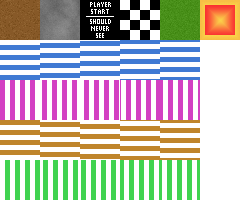
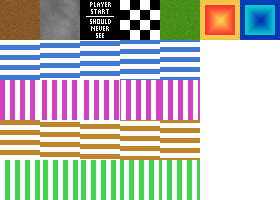
Hot and cold ground panels raise or sink, can float over mountains, no bridge to duck under yet or other use of the lowering block though. Also updated some variable names

diff --git a/js/ball.js b/js/ball.js
@@ -1,8 +1,21 @@
+var balloonHeightNormal = 20;
+var ballonDeviation = 2;
+var heightChangePace = 0.04;
+var heightChangeDampen = 0.6;
+var heightMin = 2;
+var heightMax = 50;
+var mountainHeight = 30;
+var balloonCorrectivePaceRise = 0.1;
+var balloonCorrectivePaceSink = 0.5;
+
 function ballClass() {
-  this.X = 75;
-  this.Y = 75;
-  this.XV = 5;
-  this.YV = -3;
+  this.x = 75;
+  this.y = 75;
+  this.xv = 5;
+  this.yv = -3;
+  this.z = balloonHeightNormal;
+  this.zv = 0;
+  this.heightOscillate = 0.0;
 
   // keyboard hold state variables, to use keys more like buttons
   this.keyHeld_Gas = false;
@@ -32,16 +45,16 @@ function ballClass() {
       } // end of for
     } // end of if car position not saved yet
     
-    this.X = this.homeX;
-    this.Y = this.homeY;
-    this.XV = 5;
-    this.YV = -3;
+    this.x = this.homeX;
+    this.y = this.homeY;
+    this.xv = 5;
+    this.yv = -3;
 
   } // end of carReset
   
   this.Move = function() {
-    var nextX = this.X + this.XV;
-    var nextY = this.Y + this.YV;
+    var nextX = this.x + this.xv;
+    var nextY = this.y + this.yv;
     
     var carRad = 19;
 
@@ -50,9 +63,9 @@ function ballClass() {
     for(var r=Math.random()*0.1; r < 2*3.14159; r+=0.1) {
       hitR = getTrackAtPixelCoord(nextX+Math.cos(r)*carRad,
                                   nextY+Math.sin(r)*carRad);
-      if(hitR == TRACK_WALL) {
-        this.XV -= Math.cos(r)*0.09;
-        this.YV -= Math.sin(r)*0.09;
+      if(hitR == TRACK_MOUNTAINS && this.z < mountainHeight) {
+        this.xv -= Math.cos(r)*0.09;
+        this.yv -= Math.sin(r)*0.09;
       }
     }
   
@@ -60,20 +73,26 @@ function ballClass() {
     var otherAxisDampen = 0.97;
     switch( hitC ) {
       case ARROW_U:
-        this.YV -= primaryAxisAccel;
-        this.XV *= otherAxisDampen;
+        this.yv -= primaryAxisAccel;
+        this.xv *= otherAxisDampen;
         break;
       case ARROW_R:
-        this.XV += primaryAxisAccel;
-        this.YV *= otherAxisDampen;
+        this.xv += primaryAxisAccel;
+        this.yv *= otherAxisDampen;
         break;
       case ARROW_D:
-        this.YV += primaryAxisAccel;
-        this.XV *= otherAxisDampen;
+        this.yv += primaryAxisAccel;
+        this.xv *= otherAxisDampen;
         break;
       case ARROW_L:
-        this.XV -= primaryAxisAccel;
-        this.YV *= otherAxisDampen;
+        this.xv -= primaryAxisAccel;
+        this.yv *= otherAxisDampen;
+        break;
+      case TRACK_HEAT:
+        this.zv = 5;
+        break;
+      case TRACK_ICE:
+        this.zv = -5;
         break;
       case TRACK_GOAL:
         this.Reset();
@@ -81,26 +100,47 @@ function ballClass() {
     }
 
     var speed = Math.sqrt(
-        this.XV*this.XV +
-        this.YV*this.YV
+        this.xv*this.xv +
+        this.yv*this.yv
         );
     var minSpeed = 2.0;
     var maxSpeed = 5.0;
     if(speed < minSpeed) {
-      this.XV = minSpeed * (this.XV/speed);
-      this.YV = minSpeed * (this.YV/speed);
+      this.xv = minSpeed * (this.xv/speed);
+      this.yv = minSpeed * (this.yv/speed);
     }
     if(speed > maxSpeed) {
-      this.XV = maxSpeed * (this.XV/speed);
-      this.YV = maxSpeed * (this.YV/speed);
+      this.xv = maxSpeed * (this.xv/speed);
+      this.yv = maxSpeed * (this.yv/speed);
     }
 
-    this.X = nextX;
-    this.Y = nextY;
+    this.heightOscillate += heightChangePace;
+
+    this.x = nextX;
+    this.y = nextY;
+
+    this.z += this.zv;
+    if(this.z < heightMin) {
+      this.z = heightMin;
+    }
+    if(this.z > heightMax) {
+      this.z = heightMax;
+    }
+    if(this.z < balloonHeightNormal - balloonCorrectivePaceRise && this.zv<balloonCorrectivePaceRise) {
+      this.zv = balloonCorrectivePaceRise;
+    } else if(this.z > balloonHeightNormal + balloonCorrectivePaceSink && this.zv>-balloonCorrectivePaceSink) {
+      this.zv = -balloonCorrectivePaceSink;
+    } else {
+      this.zv *= heightChangeDampen;
+    }
+  }
+
+  this.heightNow = function() {
+    return this.z + Math.cos(this.heightOscillate) * ballonDeviation;
   }
   
   this.Draw = function() {
-    drawBitmapCenteredAtLocationWithRotation( this.myBitmap, this.X, this.Y, 0 );
+    drawBitmapCenteredAtLocationWithRotation( this.myBitmap, this.x, this.y, 0 );
   }
 
 } // end of car class

diff --git a/js/track.js b/js/track.js
@@ -5,11 +5,11 @@ const TRACK_COLS = 20;
 const TRACK_ROWS = 15;
 var trackGrid =
     [ 4, 4, 1, 1, 1, 1, 1, 1, 1, 1, 1, 1, 1, 1, 1, 1, 1, 1, 1, 4,
-      4, 1, 1,-4, 0, 0, 0,-2, 0, 0, 0,-4,-4, 0,-1,-1, 0,-2, 1, 1,
-      1, 1,-4,-4, 0, 0, 0,-2, 0, 0, 0,-4,-4, 0,-1,-1, 0,-1,-1, 1,
+      4, 1, 1,-4, 0, 0, 0,-2, 0, 6, 0,-4,-4, 0,-1,-1, 0,-2, 1, 1,
+      1, 1,-4,-4, 0, 0, 0,-2, 0, 6, 0,-4,-4, 0,-1,-1, 0,-1,-1, 1,
       1, 0, 0, 0, 0, 1, 1, 1, 1, 1, 1, 1, 1, 1, 1, 1, 0, 0, 0, 1,
-      1, 0, 0, 0, 1, 1, 1, 4, 4, 4, 4, 1, 1, 1, 1, 1, 1,-3,-3, 1,
-      1, 0, 5, 1, 1, 0, 0, 1, 4, 4, 1, 1,-1,-1,-1, 1, 1,-3,-3, 1,
+      1,-1,-1, 0, 1, 1, 1, 4, 4, 4, 4, 1, 1, 1, 1, 1, 1,-3,-3, 1,
+      1, 5, 5, 1, 1, 0, 0, 1, 4, 4, 1, 1,-1,-1,-1, 1, 1,-3,-3, 1,
       1,-3,-3, 1,-2,-2,-1,-1, 1, 4, 1,-2,-1,-2,-1,-2, 1, 0, 0, 1,
       1, 0, 0, 1,-1,-1,-2,-2, 0, 1, 1, 0, 0, 0, 0, 0, 1, 0, 0, 1,
       1, 2, 0, 1, 0, 0, 0, 0, 0,-2, 1, 0, 0, 1,-3,-3, 1, 0, 0, 1,
@@ -20,11 +20,12 @@ var trackGrid =
       0, 3, 0, 0,-4,-3, 1, 4, 4, 1, 1, 1, 1, 1, 1, 0, 0, 0, 1, 1,
       1, 1, 1, 1, 1, 1, 1, 4, 4, 4, 4, 4, 4, 1, 1, 1, 1, 1, 1, 1];
 const TRACK_ROAD = 0;
-const TRACK_WALL = 1;
+const TRACK_MOUNTAINS = 1;
 const TRACK_PLAYER = 2;
 const TRACK_GOAL = 3;
 const TRACK_TREE = 4;
-const TRACK_FLAG = 5;
+const TRACK_HEAT = 5;
+const TRACK_ICE = 6;
 const ARROW_U = -1;
 const ARROW_R = -2;
 const ARROW_D = -3;
@@ -45,7 +46,7 @@ function getTrackAtPixelCoord(pixelX,pixelY) {
   // first check whether the ball is within any part of the track wall
   if(tileCol < 0 || tileCol >= TRACK_COLS ||
      tileRow < 0 || tileRow >= TRACK_ROWS) {
-     return TRACK_WALL; // avoid invalid array access, treat out of bounds as wall
+     return TRACK_MOUNTAINS; // avoid invalid array access, treat out of bounds as wall
   }
   
   var trackIndex = trackTileToIndex(tileCol, tileRow);
@@ -69,10 +70,10 @@ function drawTracks() {
 
       var trackTypeHere = trackGrid[ trackIndex ]; // getting the track code for this tile        
       
-      if(trackTypeHere == TRACK_WALL || trackTypeHere == TRACK_TREE) {
+      if(trackTypeHere == TRACK_MOUNTAINS || trackTypeHere == TRACK_TREE) {
         var newPt = {x:trackLeftEdgeX+TRACK_W/2,
                      y:trackTopEdgeY+TRACK_H,
-                     img:(trackTypeHere == TRACK_WALL ? mountainPic : treePic)};
+                     img:(trackTypeHere == TRACK_MOUNTAINS ? mountainPic : treePic)};
         mtPos.push(newPt);
       }
 

diff --git a/js/main.js b/js/main.js
@@ -9,10 +9,6 @@ var parHorizBaseWidth = 370;
 var parXRangeTop = 0;
 var parXRangeBot = 0;
 var parYRange = 0;
-var balloonHeight = 30;
-var maxHeight = 33;
-var minHeight = 27;
-var heightChangeScalar = 0.25;
 
 var arrowAnimFrame = 0;
 var arrowAnimFrameTicksDelay = 0;
@@ -105,19 +101,11 @@ function drawEverything() {
       mtDot.y,mtDot.scaleHere);
   }
 
-  var balloonDot = worldCoordToParCoord(p1.X,p1.Y);
+  var balloonDot = worldCoordToParCoord(p1.x,p1.y);
   // scaledContext.fillRect(balloonDot.x-3,balloonDot.y-3,7,7);
-  balloonHeight += Math.random() * heightChangeScalar
-                 - Math.random() * heightChangeScalar;
-  if(balloonHeight < minHeight) {
-    balloonHeight = minHeight;
-  }
-  if(balloonHeight > maxHeight) {
-    balloonHeight = maxHeight;
-  }
-  scaledContext.drawImage(carPic,
-    balloonDot.x-carPic.width/2,
-    balloonDot.y-carPic.height - balloonHeight);
+  drawAtBaseScaled(carPic,
+    balloonDot.x,
+    balloonDot.y - p1.heightNow()*balloonDot.scaleHere ,balloonDot.scaleHere);
 }
 
 function worldCoordToParCoord(worldX,worldY) {
